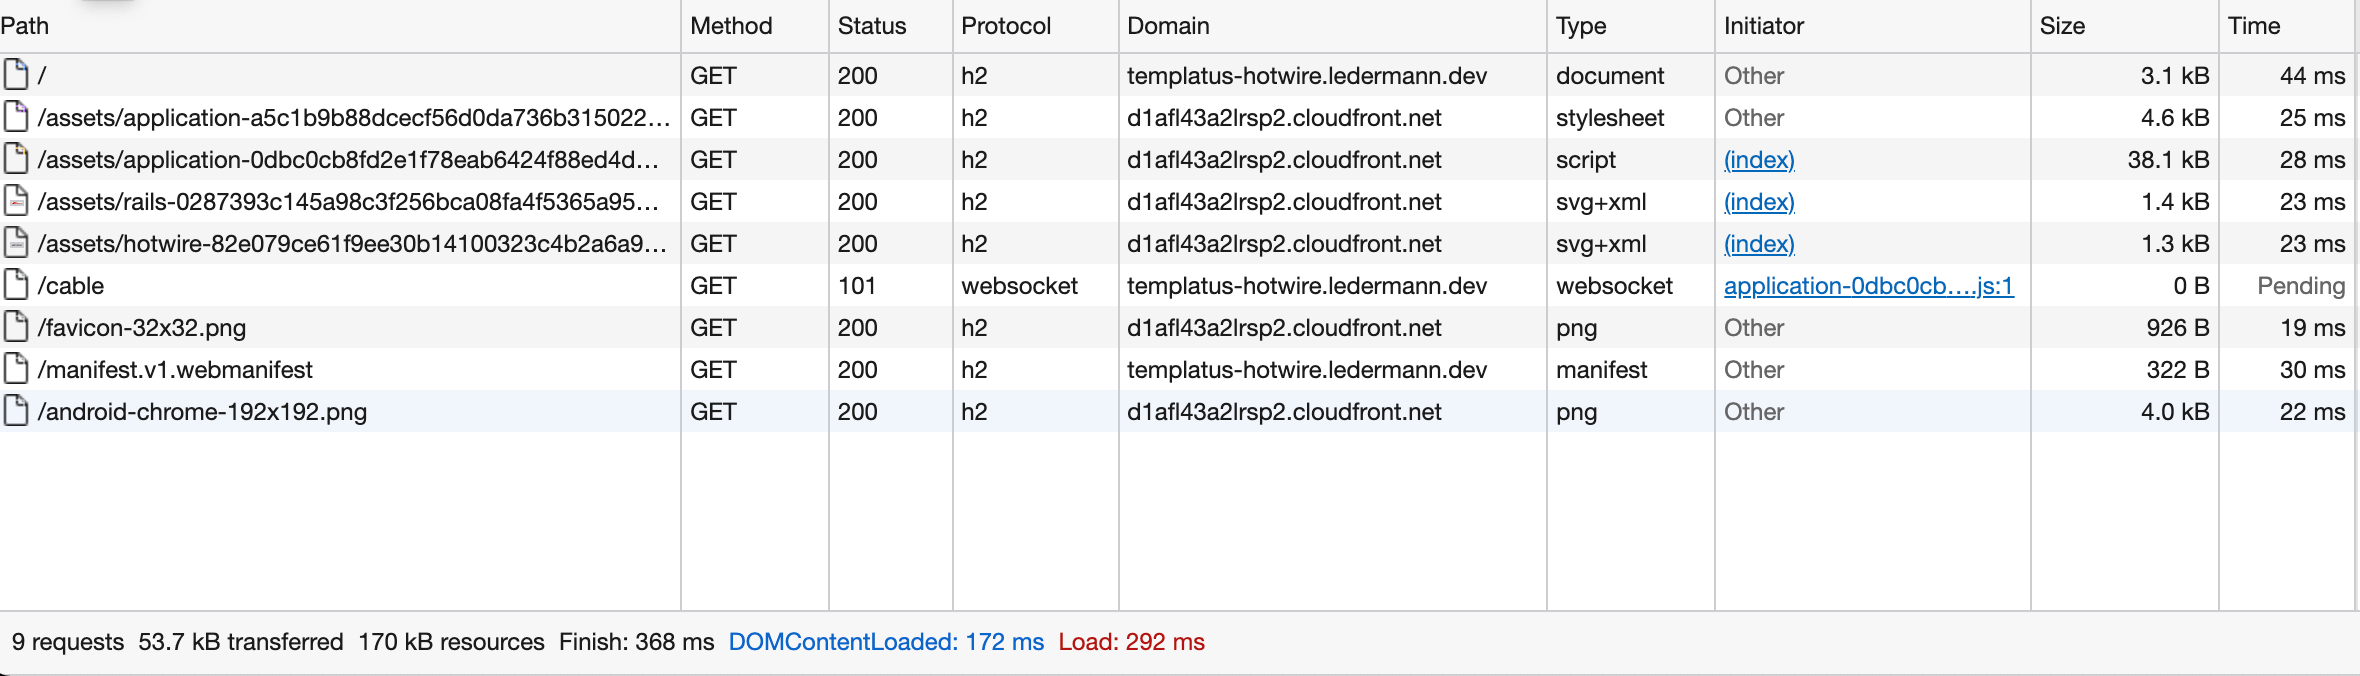
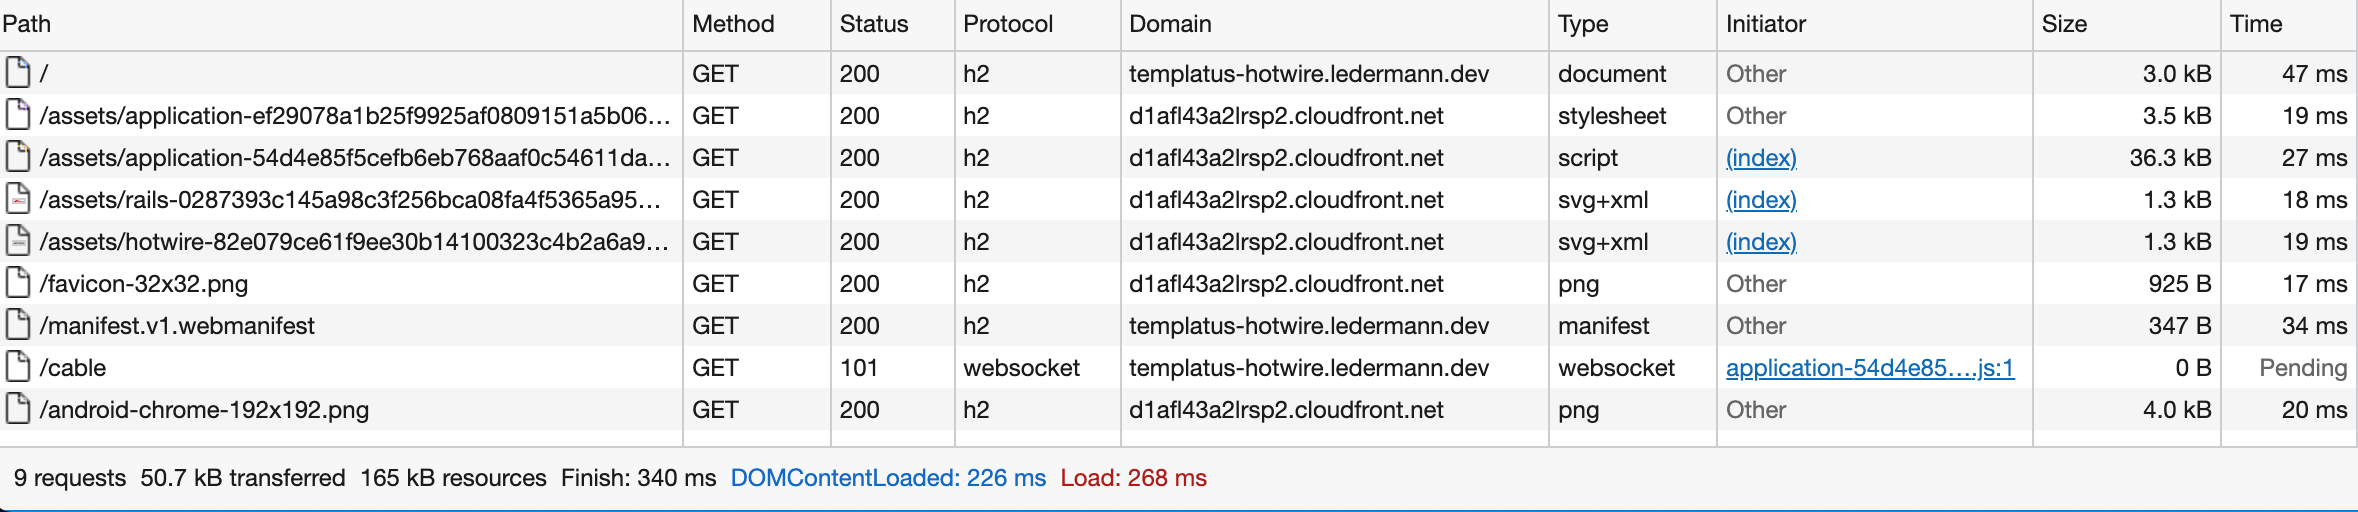
Compress assets with Brotli

diff --git a/esbuild.config.js b/esbuild.config.js
@@ -2,11 +2,17 @@ const esbuild = require('esbuild');
 const rails = require('esbuild-rails');
 const path = require('path');
 
-esbuild.build({
-  entryPoints: ["application.js"],
-  bundle: true,
-  minify: true,
-  outdir: path.join(process.cwd(), "app/assets/builds"),
-  absWorkingDir: path.join(process.cwd(), "app/javascript"),
-  plugins: [rails()],
-}).catch(() => process.exit(1));
+(async () => {
+  const result = await esbuild.build({
+    entryPoints: ["application.js"],
+    bundle: true,
+    minify: true,
+    metafile: true,
+    outdir: path.join(process.cwd(), "app/assets/builds"),
+    absWorkingDir: path.join(process.cwd(), "app/javascript"),
+    plugins: [rails()],
+  });
+
+  const text = await esbuild.analyzeMetafile(result.metafile);
+  console.log(text);
+})();

diff --git a/config/environments/production.rb b/config/environments/production.rb
@@ -34,6 +34,12 @@ Rails.application.configure do
   # Do not fallback to assets pipeline if a precompiled asset is missed.
   config.assets.compile = false
 
+  # Compress assets with Brotli
+  config.assets.configure do |env|
+    env.register_exporter %w[text/css application/javascript image/svg+xml],
+                          Sprockets::ExportersPack::BrotliExporter
+  end
+
   # Enable serving of images, stylesheets, and JavaScripts from an asset server.
   config.asset_host = ENV.fetch('ASSET_HOST', nil).presence
 

diff --git a/README.md b/README.md
@@ -57,7 +57,7 @@ Live demo available at https://templatus-hotwire.ledermann.dev
 ### Production
 
 - [Lograge](https://github.com/roidrage/lograge) for single-line logging
-- Gzip and Brotli compression of all dynamic responses (HTML, JSON) using [Rack::Deflater](https://github.com/rack/rack/blob/master/lib/rack/deflater.rb) and [Rack::Brotli](https://github.com/marcotc/rack-brotli)
+- Gzip and Brotli compression of all responses (HTML, JSON, assets) using [Rack::Deflater](https://github.com/rack/rack/blob/master/lib/rack/deflater.rb), [Rack::Brotli](https://github.com/marcotc/rack-brotli) and [Sprockets::ExportersPack](https://github.com/hansottowirtz/sprockets-exporters_pack)
 - Fine-tuned Content Security Policy (CSP)
 - Ready for PWA (manifest, service-worker)
 
@@ -97,18 +97,59 @@ https://github.com/rails/rails/pull/41994
 
 ### JavaScript size
 
-136 KB of compiled JavaScript (minified, uncompressed). The largest parts are:
+132 KB of compiled JavaScript (minified, uncompressed). The largest parts are:
 
 - Honeybadger (22 KB)
 - ActionCable (10 KB)
 
 ```
-RAILS_ENV=production SECRET_KEY_BASE=temp bin/rails assets:clobber assets:precompile
+$ yarn build
+yarn run v1.22.17
+$ node esbuild.config.js
+
+  ../assets/builds/application.js                                                                        132.4kb  100.0%
+   ├ ../../node_modules/@hotwired/turbo/dist/turbo.es2017-esm.js                                          62.5kb   47.2%
+   ├ ../../node_modules/@hotwired/stimulus/dist/stimulus.js                                               31.8kb   24.0%
+   ├ ../../node_modules/@honeybadger-io/js/dist/browser/honeybadger.js                                    21.1kb   16.0%
+   ├ ../../node_modules/@hotwired/turbo-rails/node_modules/@rails/actioncable/src/connection.js            2.8kb    2.1%
+   ├ ../../node_modules/@hotwired/turbo-rails/node_modules/@rails/actioncable/src/connection_monitor.js    2.3kb    1.7%
+   ├ ../../node_modules/register-service-worker/index.js                                                   1.7kb    1.3%
+   ├ ../../node_modules/@hotwired/turbo-rails/node_modules/@rails/actioncable/src/subscriptions.js        1021b     0.8%
+   ├ ../../node_modules/el-transition/index.js                                                             805b     0.6%
+   ├ ../../node_modules/timeago.js/esm/utils/date.js                                                       659b     0.5%
+   ├ ../../node_modules/@hotwired/turbo-rails/node_modules/@rails/actioncable/src/consumer.js              585b     0.4%
+   ├ controllers/online_status_controller.js                                                               568b     0.4%
+   ├ ../../node_modules/@hotwired/turbo-rails/app/javascript/turbo/cable_stream_source_element.js          522b     0.4%
+   ├ utils/setupServiceWorker.js                                                                           519b     0.4%
+   ├ ../components/clicks/component_controller.js                                                          480b     0.4%
+   ├ ../../node_modules/@hotwired/turbo-rails/node_modules/@rails/actioncable/src/index.js                 468b     0.3%
+   ├ ../../node_modules/timeago.js/esm/realtime.js                                                         409b     0.3%
+   ├ ../../node_modules/@hotwired/turbo-rails/node_modules/@rails/actioncable/src/subscription.js          400b     0.3%
+   ├ ../../node_modules/@hotwired/turbo-rails/node_modules/@rails/actioncable/src/internal.js              365b     0.3%
+   ├ ../../node_modules/@hotwired/turbo-rails/app/javascript/turbo/cable.js                                256b     0.2%
+   ├ ../../node_modules/timeago.js/esm/lang/zh_CN.js                                                       220b     0.2%
+   ├ ../../node_modules/timeago.js/esm/lang/en_US.js                                                       197b     0.1%
+   ├ ../../node_modules/timeago.js/esm/utils/dom.js                                                        158b     0.1%
+   ├ utils/setupHoneyBadger.js                                                                             157b     0.1%
+   ├ rails:/Users/ledermann/Projects/templatus-hotwire/app/javascript/controllers/**/*_controller.js       151b     0.1%
+   ├ ../../node_modules/@hotwired/turbo-rails/node_modules/@rails/actioncable/src/logger.js                108b     0.1%
+   ├ controllers/timeago_controller.js                                                                     104b     0.1%
+   ├ rails:/Users/ledermann/Projects/templatus-hotwire/app/components/**/*_controller.js                    96b     0.1%
+   ├ utils/metaContent.js                                                                                   92b     0.1%
+   ├ utils/setupStimulus.js                                                                                 78b     0.1%
+   ├ ../../node_modules/timeago.js/esm/register.js                                                          75b     0.1%
+   ├ ../components/index.js                                                                                 68b     0.1%
+   ├ controllers/index.js                                                                                   68b     0.1%
+   ├ ../../node_modules/@hotwired/turbo-rails/node_modules/@rails/actioncable/src/adapters.js               67b     0.0%
+   └ ../../node_modules/timeago.js/esm/index.js                                                             30b     0.0%
+
+✨  Done in 0.29s.
+~/Projects/templatus-hotwire main ⇡1 !2 ❯
 ```
 
 ### Network transfer
 
-Small footprint: The demo application transfers only **54 KB** of data on the first visit.
+Small footprint: The demo application transfers only **51 KB** of data on the first visit.
 
 ![Network](docs/network.png)
 
@@ -118,7 +159,7 @@ With multi-stage building and using [DockerRailsBase](https://github.com/lederma
 
 ### Docker image size
 
-The Docker image is based on Alpine Linux and is optimized for minimal size (currently **117 MB** uncompressed disk size). It includes just the bare minimum - no build tools like Node.js, no JS sources (just the compiled assets), no tests.
+The Docker image is based on Alpine Linux and is optimized for minimal size (currently **130 MB** uncompressed disk size). It includes just the bare minimum - no build tools like Node.js, no JS sources (just the compiled assets), no tests.
 
 ```
 $ container-diff analyze ghcr.io/ledermann/templatus-hotwire -n
@@ -127,7 +168,7 @@ $ container-diff analyze ghcr.io/ledermann/templatus-hotwire -n
 
 Analysis for ghcr.io/ledermann/templatus-hotwire:
 IMAGE                                      DIGEST       SIZE
-ghcr.io/ledermann/templatus-hotwire        sha256:...   117.3M
+ghcr.io/ledermann/templatus-hotwire        sha256:...   130M
 ```
 
 ## Getting startet
